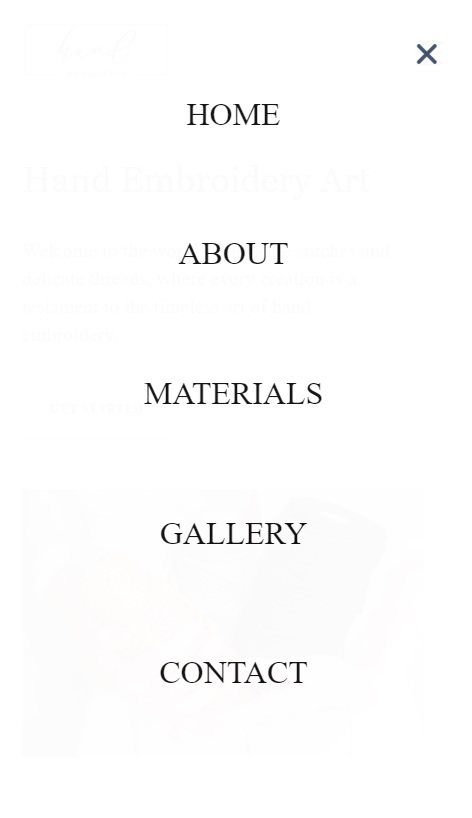
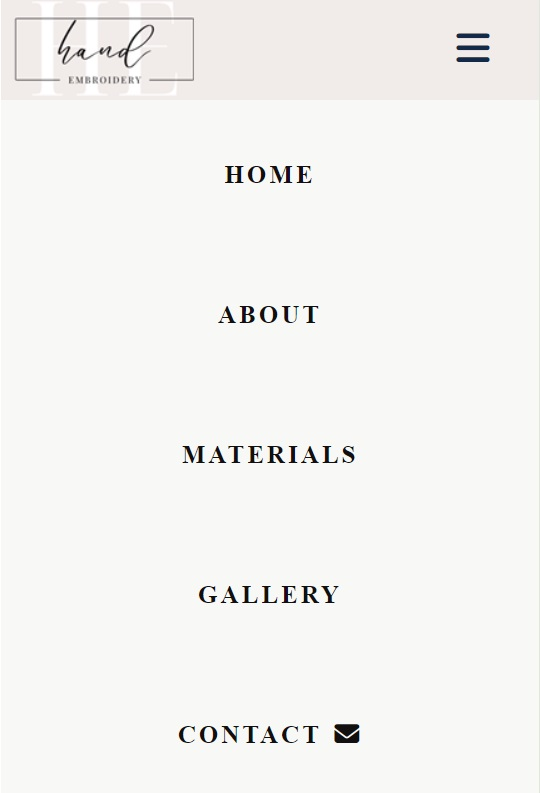
after mentor review: add pure CSS to create toggle responsive menu

diff --git a/assets/css/style.css b/assets/css/style.css
@@ -127,106 +127,55 @@ section {
 
 header {
     position: fixed;
-    display: flex;
-    flex-direction: row;
-    justify-content: space-between;    
-    align-items: center;
-    padding: 0 2rem;
     width: 100%;
-    height: 14vh;
-    max-height: 14vh;
+}
+nav {
+    height: 80px;
+    width: 100%;
+}
+#logo {
+    margin-left: 20px;
 }
 
-#menu {
-    display: flex;
-    flex-direction: row;
-    list-style-type: none;
-    height: fit-content;
+nav ul {
+    float: right;
+    margin-right: 20px;
 }
-#menu a {
-    display: flex;
-    justify-content: center;
-    text-decoration: none;
-    color: inherit;
+nav ul li {
+    display: inline-block;
+    line-height: 80px;
+    margin: 0 5px;
+}
+nav ul li a {
     text-transform: uppercase;
     letter-spacing: .12em;
-    padding: 0 2rem;
     font-size: 1rem;
     line-height: 24px;
     font-weight: bolder;
+    transition: color 0.3s ease;
+    font-size: 17px;
+    padding: 5px 20px;
 }
-.menu-contact-icon {
-    display: flex;
-    align-items: center;
-    height: 100%;
+nav ul li a:hover {
+    color: #850e14;
+    transition: .5s;
 }
+
 .fa-envelope {
-    margin-left: 12px;
-}
-#menu a:hover {
-    color:#122947cc;
+    margin-left: 10px;
 }
 
-.dropdown-bars {
-    font-size: 2rem;
+.check-btn {
+    font-size: 30px;
+    color: #122947;
+    float: right;
+    line-height: 80px;
+    margin-right: 40px;
     cursor: pointer;
+    display: none;
 }
-.dropdown-bars:hover, 
-.dropdown-bars:focus {
-    color: #122947cc;
-}
-
-.fa-xmark {
-    position: absolute;
-    top: 5%;
-    right: 7.5%;
-    font-size: 2rem;
-    cursor: pointer;
-    transition: 0.2s;
-}
-.fa-xmark:hover {
-    color: #122947cc;
-}
-
-.dropdown {
-    width: 100%;
-}
-.dropdown-links {
-    display: none;  
-    position: absolute;
-    top: 0;
-    right: 0;
-    width: 100%;
-    height: 100vh;
-    padding: 2rem;
-    font-size: 2rem;
-    text-transform: uppercase;
-    opacity: 0.98;
-    background-color: #ffffff;
-}
-.links-list {
-    display: flex;
-    flex-direction: column;  
-    justify-content: space-evenly;
-    height: 100%;
-}
-.links-list a {
-    display: flex;
-    flex-direction: row;
-    justify-content: center;
-    text-decoration: none;
-    color: inherit;
-    margin-bottom: 2rem;
-}
-.links-list a:hover {
-    color: inherit;
-    background-color: #f8f8f6;
-    border: none;  
-    transition: 0.3s;
-}
-
-.show {
-    display: block;
+#check {
+    display: none;
 }
 
 .welcome-container {
@@ -474,7 +423,7 @@ input {
 
 .footer-about p:hover,
 .footer-social-media p:hover {
-    color:#ef525b;
+    color:#850e14;
     transition: 0.6s;
 }
 
@@ -493,10 +442,38 @@ hr {
 
 
 @media screen and (max-width: 1023px) {
-    #menu {
-        display: none;
+    #logo {
+        padding: 0 10px;
     }
-     
+    nav ul li a {
+        font-size: 16px;
+    }
+    .check-btn {
+        display: block;
+    
+    }
+    nav ul {
+        position: fixed;
+        width: 100%;
+        height: 100vh;
+        background: #f8f8f6;
+        top: 80px;
+        left: -100%;
+        text-align: center;
+        transition: all .5s;
+    }
+    nav ul li {
+      display: block; 
+      padding: 1rem; 
+    }
+    nav ul li a {
+        font-size: 20px;
+    }
+
+    #check:checked ~ ul {
+        left: 0;
+    }
+
     section {
         padding: 60px 30px;        
     }
@@ -638,6 +615,8 @@ hr {
         padding: 80px 50px; 
     }
 
+    
+
     .materials-container {
         align-items: start;
     }
@@ -653,7 +632,7 @@ hr {
     }
 }
 
-@media screen and (min-width: 1024px) and (max-width: 1480px) {
+@media screen and (min-width: 1024px) and (max-width: 1480px) {    
     .welcome-text {
         padding-right: 2rem;
     }

diff --git a/index.html b/index.html
@@ -17,31 +17,19 @@
 
 <body>
     <header class="section-brown">
-        <a href="index.html"><img src="assets/images/logo-v2.png" alt="Logo of Hand Embroidery" id="logo"></a>
-        <nav id="nav-menu">
+        <nav>
+            <a href="#" id="logo"><img src="assets/images/logo-v2.png" alt="Logo of Hand Embroidery"></a>
+            <input type="checkbox" id="check">
+            <label for="check" class="check-btn"><i class="fa-solid fa-bars"></i></label>
             <ul id="menu">
                 <li><a href="#">Home</a></li>
                 <li><a href="#about">About</a></li>
                 <li><a href="#materials">Materials</a></li>
                 <li><a href="#gallery">Gallery</a></li>
-                <li><a href="#contact" class="menu-contact-icon">Contact<i class="fa-solid fa-envelope"></i></a></li>
+                <li><a href="#contact">Contact<i class="fa-solid fa-envelope"></i></a></li>
             </ul>
-            <div class="dropdown">
-                <i class="fa-solid fa-bars dropdown-bars"></i>
-
-                <div id="menu-dropdown" class="dropdown-links">
-                    <i class="fa-solid fa-xmark"></i>  
-                    <div class="links-list">
-                        <a href="#">Home</a>
-                        <a href="#about">About</a>
-                        <a href="#materials">Materials</a>
-                        <a href="#gallery">Gallery</a>
-                        <a href="#contact">Contact</a>                    
-                    </div>
-                </div>               
-            </div>
         </nav>
-    </header>
+    </header>     
     <main>
         <section id="welcome" class="section-brown extra-padding">
             <div class="welcome-container">

diff --git a/README.md b/README.md
@@ -282,6 +282,7 @@ Designed to be responsive, easy to use and navigate, it is intended for people i
 - W3Schools: [W3Schools.com](https://www.w3schools.com/)  
 - StackOverflow: [Stackoverflow.com](https://stackoverflow.com/)
 - Codepen: [Codepen.io | Erik Terwan](https://codepen.io/erikterwan/pen/EVzeRP)
+- CodingNepalWeb: [CodingNepalWeb.com](https://www.codingnepalweb.com/),[CodingNepalWeb Youtube](https://www.youtube.com/watch?v=oLgtucwjVII&t=384s)
 - FreeCodeCamp: [FreeCodeCamp | Ihechikara Vincent Abba](https://www.freecodecamp.org/news/error-failed-to-push-some-refs-to-how-to-fix-in-git/)
   
 **Support & Advice**
